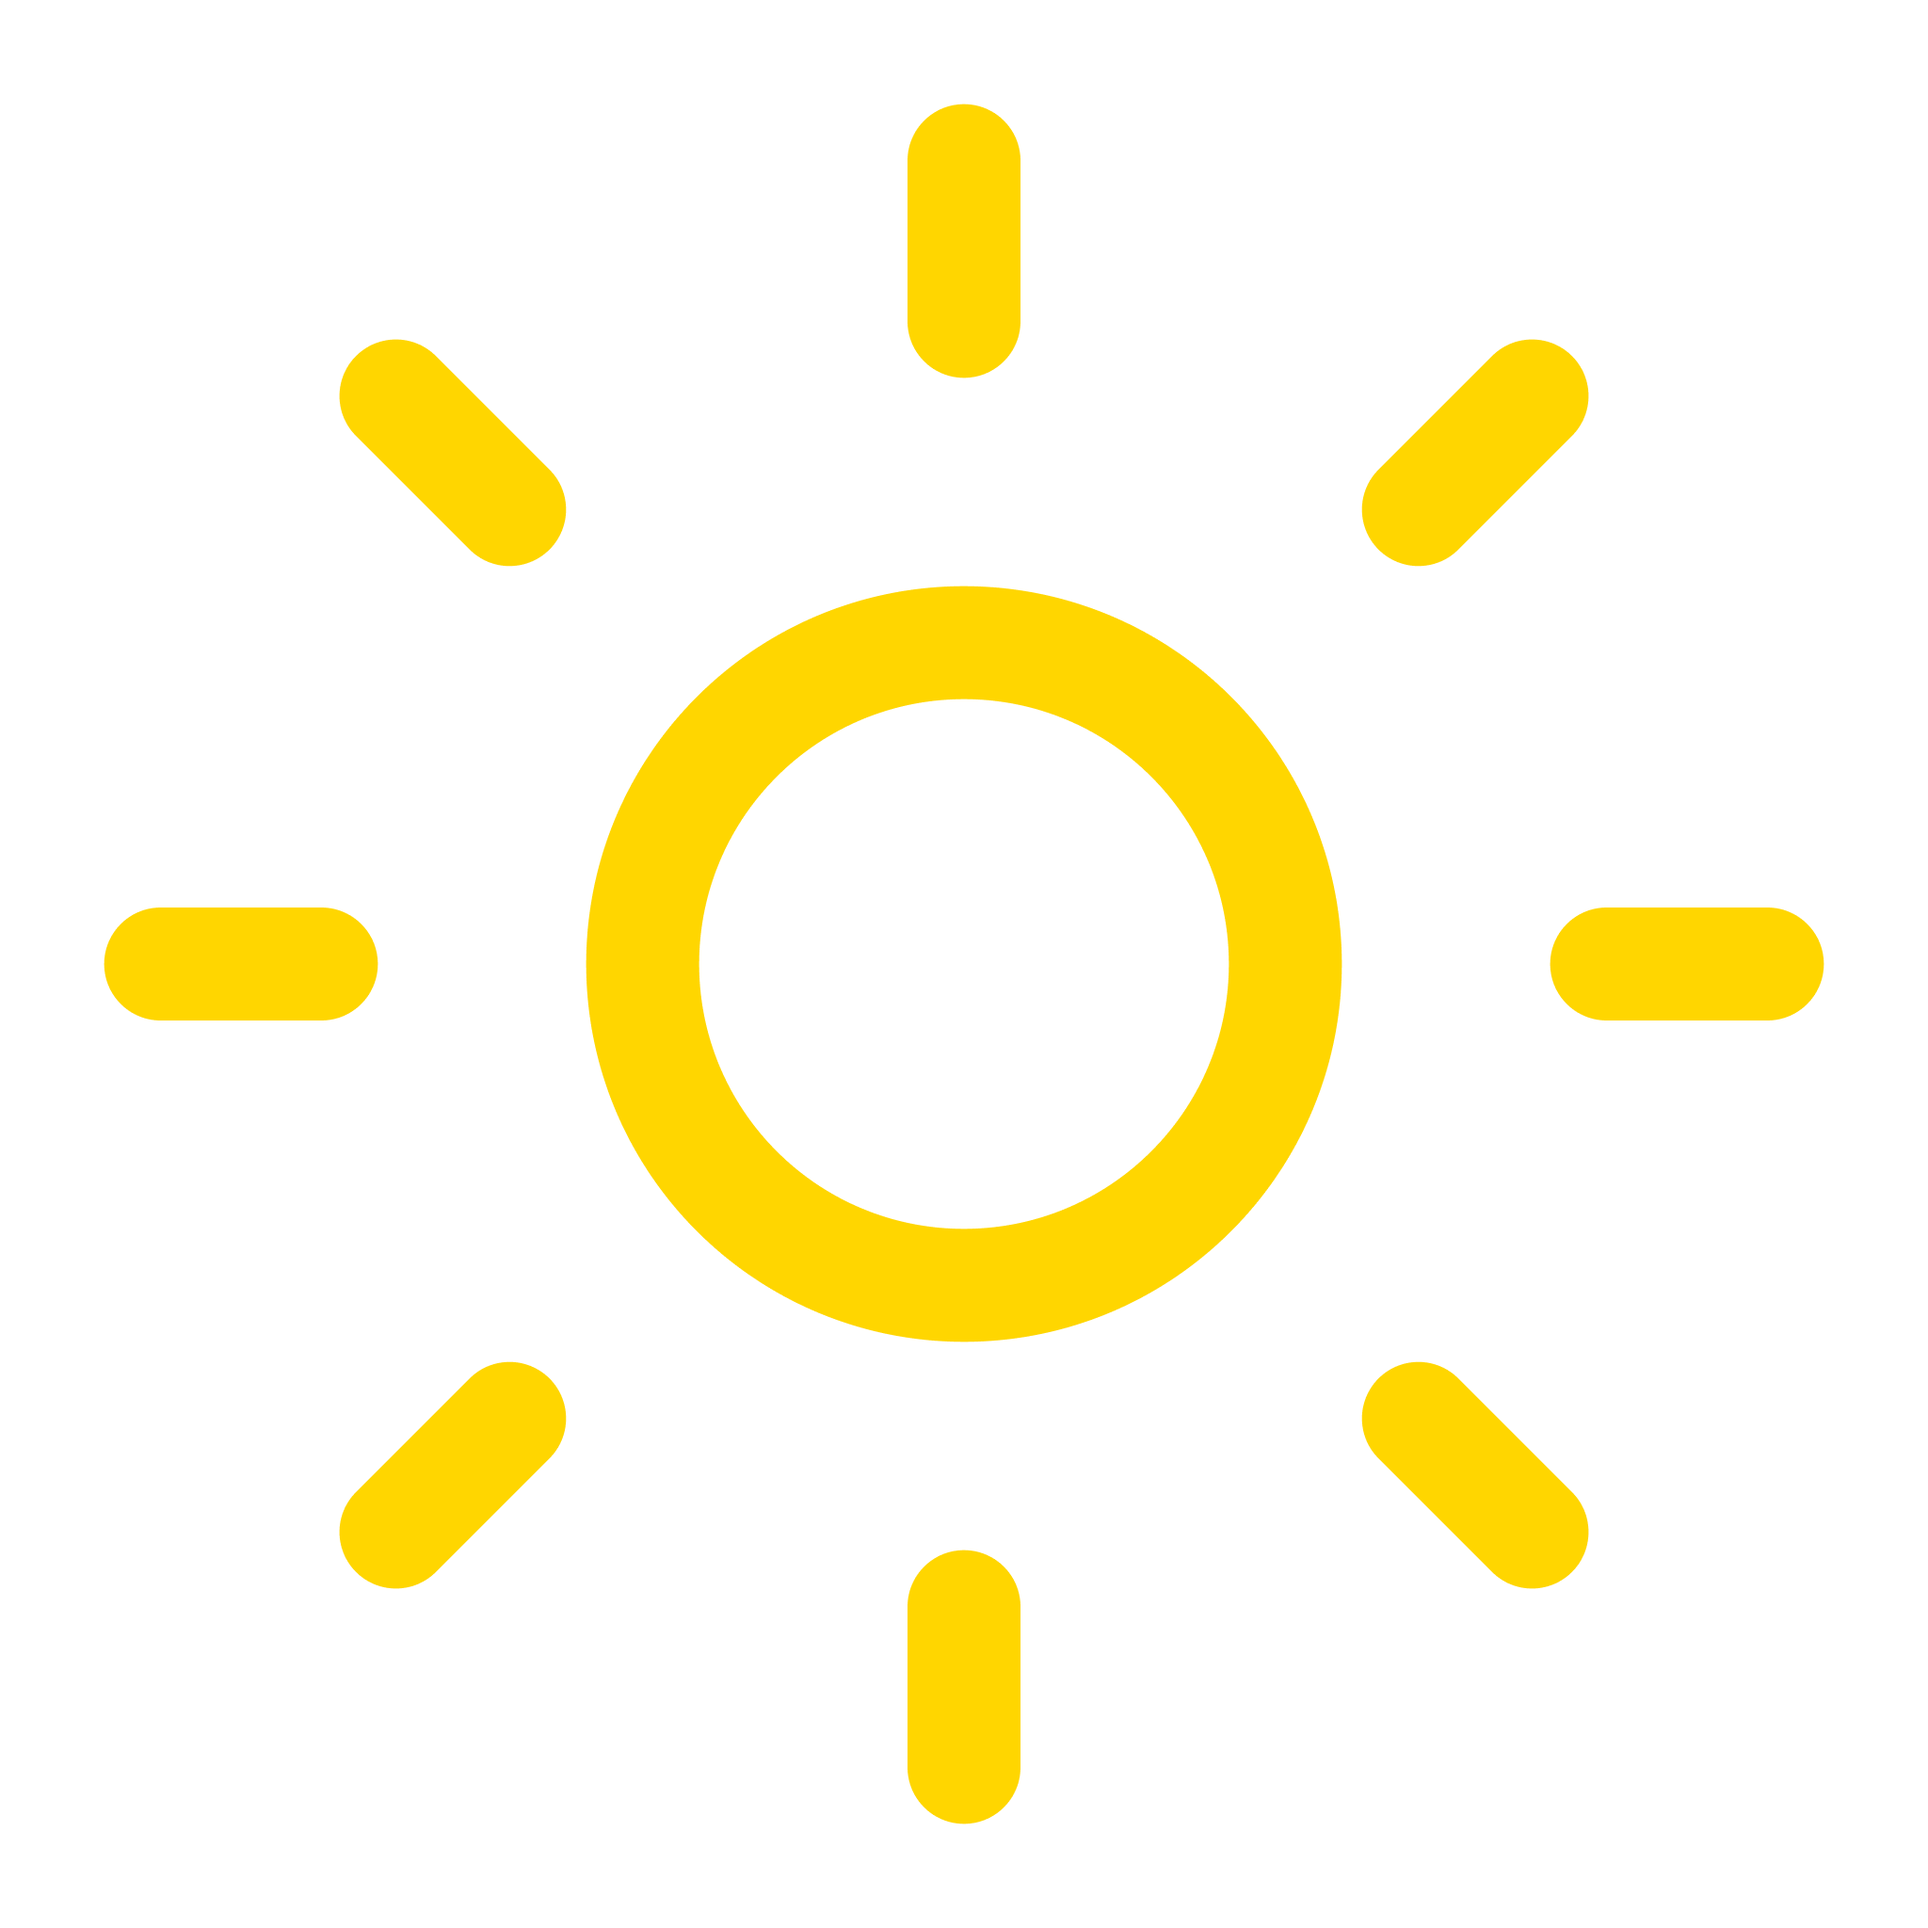
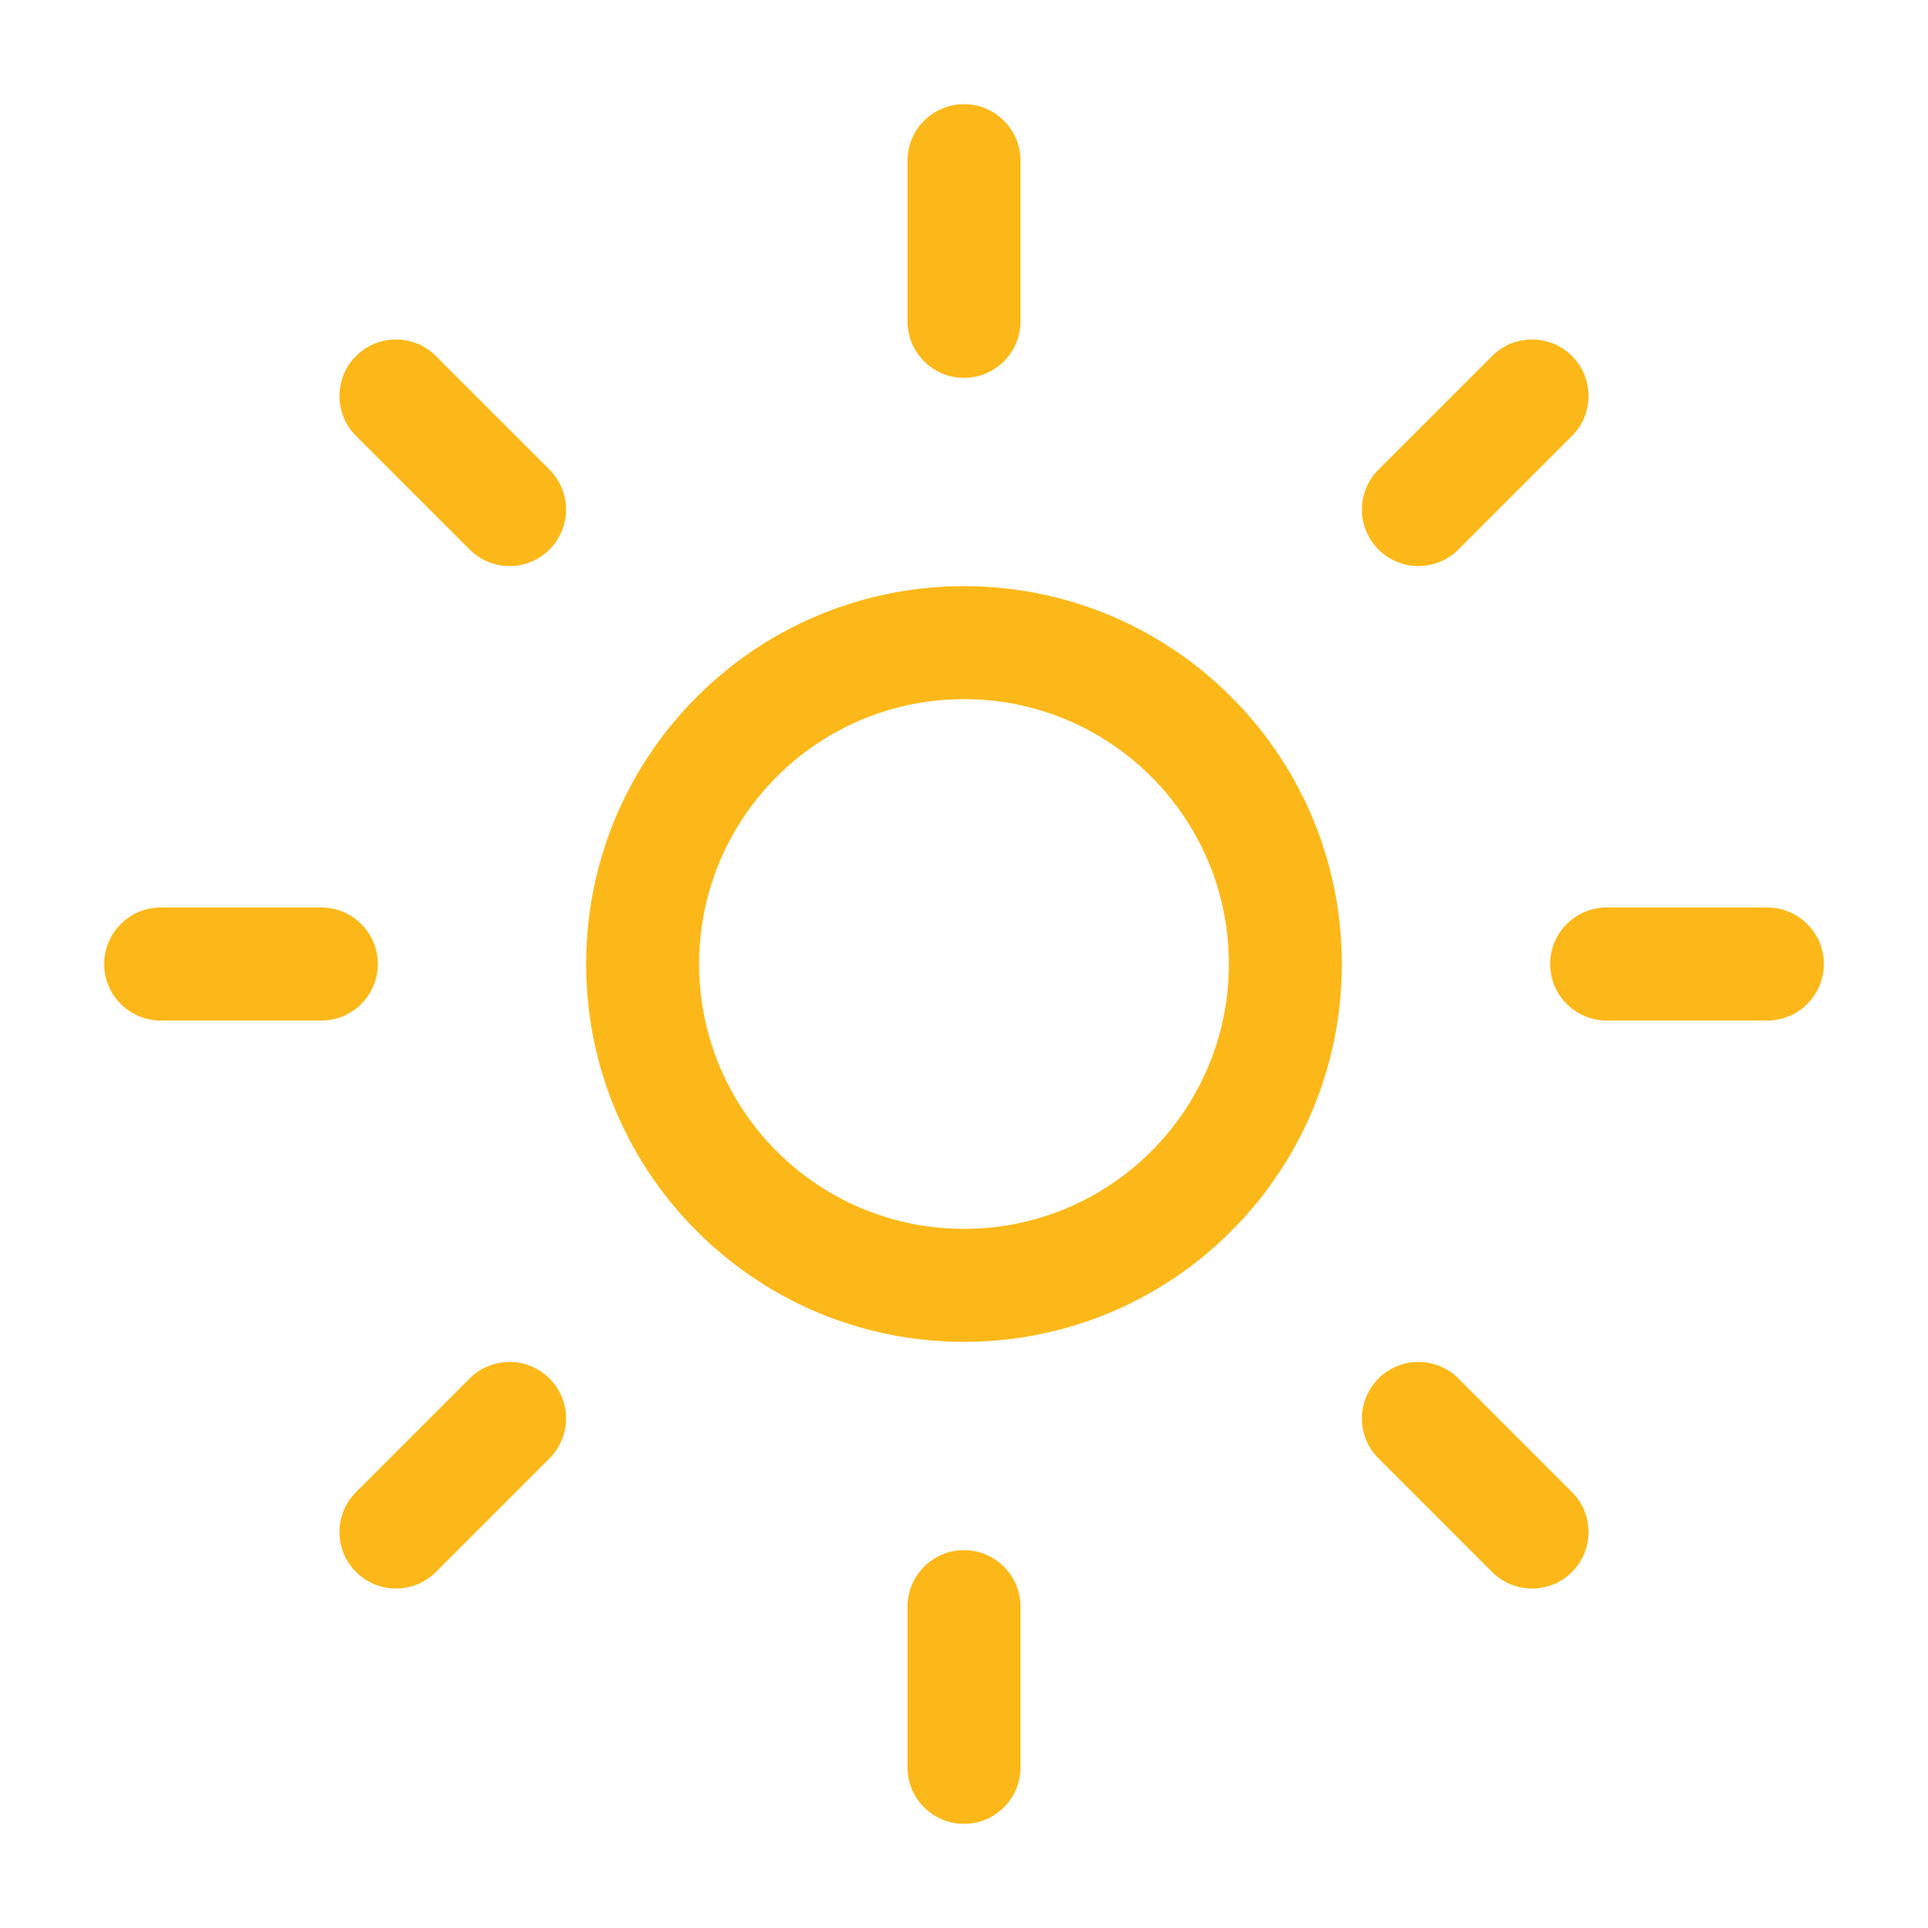
coverting style to new one with new colors - fix onload page no token but goes to home

diff --git a/src/index.css b/src/index.css
@@ -61,15 +61,15 @@ body {
 }
 
 .bg-light-hover:hover {
-  background-color: #F0F2F6 !important;
+  background-color: #EEEEEE !important;
 }
 
 .bg-light-back {
-  background-color: #F0F2F6;
+  background-color: #EEEEEE;
 }
 
 .bg-light-glass {
-  background-color: #F0F2F6;
+  background-color: #EEEEEE;
 }
 
 .text-light {
@@ -83,19 +83,19 @@ body {
 }
 
 .bg-dark {
-  background-color: #2A2B2E !important;
+  background-color: #171D20 !important;
 }
 
 .bg-dark-hover:hover {
-  background-color: #393C42 !important;
+  background-color: #152831 !important;
 }
 
 .bg-dark-back {
-  background-color: #393C42 !important;
+  background-color: #152831 !important;
 }
 
 .bg-dark-glass {
-  background: rgba(57, 60, 66, 0.50);
+  background: rgba(33, 45, 50, 0.50);
 }
 
 .bg-modal-glass {
@@ -104,7 +104,7 @@ body {
 }
 
 .text-dark {
-  color: #2A2B2E;
+  color: #171D20;
 }
 
 .bg-gray {
@@ -120,73 +120,80 @@ body {
 }
 
 .text-blue {
-  color: #7161EF;
+  color: #0A8DFF;
 }
 
 .hover-text-blue:hover {
-  color: #7161EF !important;
+  color: #0A8DFF !important;
 }
 
 .bg-blue {
-  background-color: #7161EF;
+  background-color: #0A8DFF;
 }
 
 .border-blue {
-  border-color: #7161EF;
+  border-color: #0A8DFF;
 }
 
 .outline-blue {
-  outline: #7161EF !important;
+  outline: #0A8DFF !important;
 }
 
 .focus-outline-blue:focus {
-  outline: #7161EF !important;
+  outline: #0A8DFF !important;
 } 
 
 .bg-blue-gradient {
-  background: linear-gradient(157deg, #7161EF 0%, #619AEF  100%);
+  background: linear-gradient(93deg, #11A7FC 14.34%, #0D6CC0 88.46%);
 }
 .bg-blue-gradient-opposite {
-  background: linear-gradient(157deg, #619AEF 0%, #7161EF  100%);
+  background: linear-gradient(157deg, #0D6CC0 0%, #11A7FC  100%);
 }
 
 .fill-blue {
-  fill: #7161EF;
+  fill: #0A8DFF;
 }
 
 .text-blue-gradient {
-  background: linear-gradient(157deg, #7161EF 0%, #619AEF 100%);
+  background: linear-gradient(93deg, #11A7FC 14.34%, #0D6CC0 88.46%);
   background-clip: text;
   -webkit-background-clip: text;
   -webkit-text-fill-color: transparent;
 }
 
 .text-green {
-  color: #5FDA41;
+  color: #0B9B08;
 }
 
 .bg-green {
-  background-color: #5FDA41;
+  background-color: #0B9B08;
 }
 
 .border-green {
-  border-color: #5FDA41;
+  border-color: #0B9B08;
 }
 
 .text-red {
-  color: #FF5959;
+  color: #E42F08;
 }
 
 .bg-red {
-  background-color: #FF5959;
+  background-color: #E42F08;
 }
 
 .border-red {
-  border-color: #FF5959;
+  border-color: #E42F08;
 }
 
 .text-yellow {
-  color: #FFD600;
+  color: #FCB819;
+}
+
+.text-yellow-gradient {
+  background: linear-gradient(268deg, #FCB819 48.51%, #E6C774 98.09%);
+  background-clip: text;
+  -webkit-background-clip: text;
+  -webkit-text-fill-color: transparent;
 }
 
 .rounded-tl-4xl {
@@ -202,8 +209,8 @@ body {
 }
 
 .tooltip-light {
-  background-color: #F0F2F6 !important;
-  color: #2A2B2E !important;
+  background-color: #EEEEEE !important;
+  color: #171D20 !important;
   border-radius: 0.4rem !important;
   font-family: manjari-bold !important;
   padding-inline: .8rem !important;
@@ -213,7 +220,7 @@ body {
 }
 
 .tooltip-dark {
-  background-color: #393C42 !important;
+  background-color: #152831 !important;
   color: #fff !important;
   border-radius: 0.4rem !important;
   font-family: manjari-bold !important;
@@ -234,7 +241,7 @@ body {
 }
 
 .input-dark {
-  background-color: #2A2B2E;
+  background-color: #171D20;
   font-family: manjari-regular;
   width: 100%;
   border-radius: 0.4rem;
@@ -257,11 +264,11 @@ body {
   padding-inline: 15px;
   padding-top: 12px;
   padding-bottom: 6px;
-  color: #2A2B2E;
+  color: #171D20;
   letter-spacing: 0.05rem;
 }
 .input-light:focus {
-  outline-color: #2A2B2E;
+  outline-color: #171D20;
   outline-width: 0.5px;
 }
 
@@ -271,7 +278,7 @@ body {
   padding-top: 17px;
   padding-bottom: 8px;
   border-radius: 10px;
-  background: linear-gradient(157deg, #7161EF 0%, #619AEF 100%);
+  background: linear-gradient(157deg, #0A8DFF 0%, #619AEF 100%);
   color: #fff;
   font-size: 1.1rem;
 }

diff --git a/src/components/pages/layout/Home/TableExchange.js b/src/components/pages/layout/Home/TableExchange.js
@@ -5,7 +5,7 @@ import { useDirectionState } from "../../../../Providers/DirectionProvider";
 import CustomTable from "../../../common/CustomTable";
 import { useGetTableExchange } from "../../../../apis/pages/Home/hooks";
 import { useIsLoadingSplashScreenSetState } from "../../../../Providers/IsLoadingSplashScreenProvider";
-import { useTokenState } from "../../../../Providers/TokenProvider";
+import { useAddComma } from "../../../../hooks/useNumberFunctions";
 
 export default function AllOreders({
   selectedCurrecnyPair,
@@ -14,6 +14,7 @@ export default function AllOreders({
   const theme = useThemeState();
   const oppositeTheme = theme === "dark" ? "light" : "dark";
   const lang = useLanguageState();
+  const addComma = useAddComma();
   const setLoading = useIsLoadingSplashScreenSetState();
   const { endComplete: direction } = useDirectionState();
 
@@ -33,9 +34,9 @@ export default function AllOreders({
     tableExchangeData && tableExchangeData.source_to_target
       ? tableExchangeData.source_to_target.map((row) => {
           let temp = {};
-          temp.quantity = row.quantity;
-          temp.total_amount = row.total_amount;
-          temp.rate = row.rate;
+          temp.quantity = addComma(row.quantity);
+          temp.total_amount = addComma(row.total_amount);
+          temp.rate = addComma(row.rate);
 
           return temp;
         })
@@ -44,9 +45,9 @@ export default function AllOreders({
     tableExchangeData && tableExchangeData.target_to_source
       ? tableExchangeData.target_to_source.map((row) => {
           let temp = {};
-          temp.rate = row.rate;
-          temp.total_amount = row.total_amount;
-          temp.quantity = row.quantity;
+          temp.rate = addComma(row.rate);
+          temp.total_amount = addComma(row.total_amount);
+          temp.quantity = addComma(row.quantity);
 
           return temp;
         })
@@ -71,7 +72,6 @@ export default function AllOreders({
         setTableExchangeData
       );
   }, [selectedCurrecnyPair]);
-
 
   if (
     selectedCurrecnyPair &&

diff --git a/tailwind.config.js b/tailwind.config.js
@@ -7,15 +7,15 @@ module.exports = {
   theme: {
     colors: {
       dark: "#2A2B2E",
-      "dark-back": "#393C42",
+      "dark-back": "#152831",
       light: "#FFFFFF",
-      "light-back": "#F0F2F6",
-      blue: "#7161EF",
-      green: "#5FDA41",
-      red: "#FF5959",
-      "blue-gradient": "linear-gradient(157deg, #7161EF 0%, #619AEF  100%)",
+      "light-back": "#EEEEEE",
+      blue: "#0A8DFF",
+      green: "#0B9B08",
+      red: "#E42F08",
+      "blue-gradient": "linear-gradient(157deg, #0A8DFF 0%, #619AEF  100%)",
       "blue-gradient-opposite":
-        "linear-gradient(157deg, #619AEF 0%, #7161EF  100%)",
+        "linear-gradient(157deg, #619AEF 0%, #0A8DFF  100%)",
     },
   },
   plugins: [require("flowbite/plugin")],

diff --git a/src/pages/OnLoad.js b/src/pages/OnLoad.js
@@ -14,11 +14,14 @@ export default function OnLoad() {
   useEffect(() => {
     const saveStringToken = window.localStorage.getItem("authToken");
     const saveStringUserInfo = window.localStorage.getItem("userInfo");
+    console.log("saveStringToken: ", saveStringToken);
+    console.log("saveStringUserInfo: ", saveStringUserInfo);
+
     if (
       (saveStringToken !== "undefined" &&
-        saveStringToken !== "null" &&
+        saveStringToken !== null &&
         saveStringUserInfo !== "undefined" &&
-        saveStringUserInfo !== "null") ||
+        saveStringUserInfo !== null) ||
       token
     ) {
       navigate("/home");

diff --git a/src/components/common/CustomDropdown.js b/src/components/common/CustomDropdown.js
@@ -41,14 +41,14 @@ function CustomDropdown({ children, label, className }) {
   const buttonStyle =
     theme === "dark"
       ? {
-          backgroundColor: "#393C42",
+          backgroundColor: "#152831",
           color: "#fff",
           fontFamily: "manjari-bold",
           flex: 1,
           minWidth: 0,
         }
       : {
-          backgroundColor: "#F0F2F6",
+          backgroundColor: "#EEEEEE",
           color: "#2A2B2E",
           fontFamily: "manjari-bold",
           flex: 1,

diff --git a/src/components/pages/layout/TobBar/LeftSide.js b/src/components/pages/layout/TobBar/LeftSide.js
@@ -29,9 +29,7 @@ export default function LeftSide() {
       />
       <div className={`flex flex-col justify-center ml-2 pt-1.5`}>
         <div className="flex justify-start items-start">
-          <h1
-            className={`text-blue-gradient font-mine-bold text-5xl text-blue -mb-3`}
-          >
+          <h1 className={`font-mine-bold text-5xl text-yellow-gradient pt-1 -mt-1 -mb-3`}>
             {lang["logo-header"]}
           </h1>
           {userInfo && userInfo["is_admin"] && (

diff --git a/src/components/common/CustomTooltip.js b/src/components/common/CustomTooltip.js
@@ -7,9 +7,9 @@ const customTheme = {
   arrow: {
     base: "absolute z-10 h-2 w-2 rotate-45",
     style: {
-      dark: "bg-[#393C42]",
+      dark: "bg-[#152831]",
       light: "bg-white",
-      auto: "bg-white dark:bg-[#393C42]",
+      auto: "bg-white dark:bg-[#152831]",
     },
     placement: "-4px",
   },
